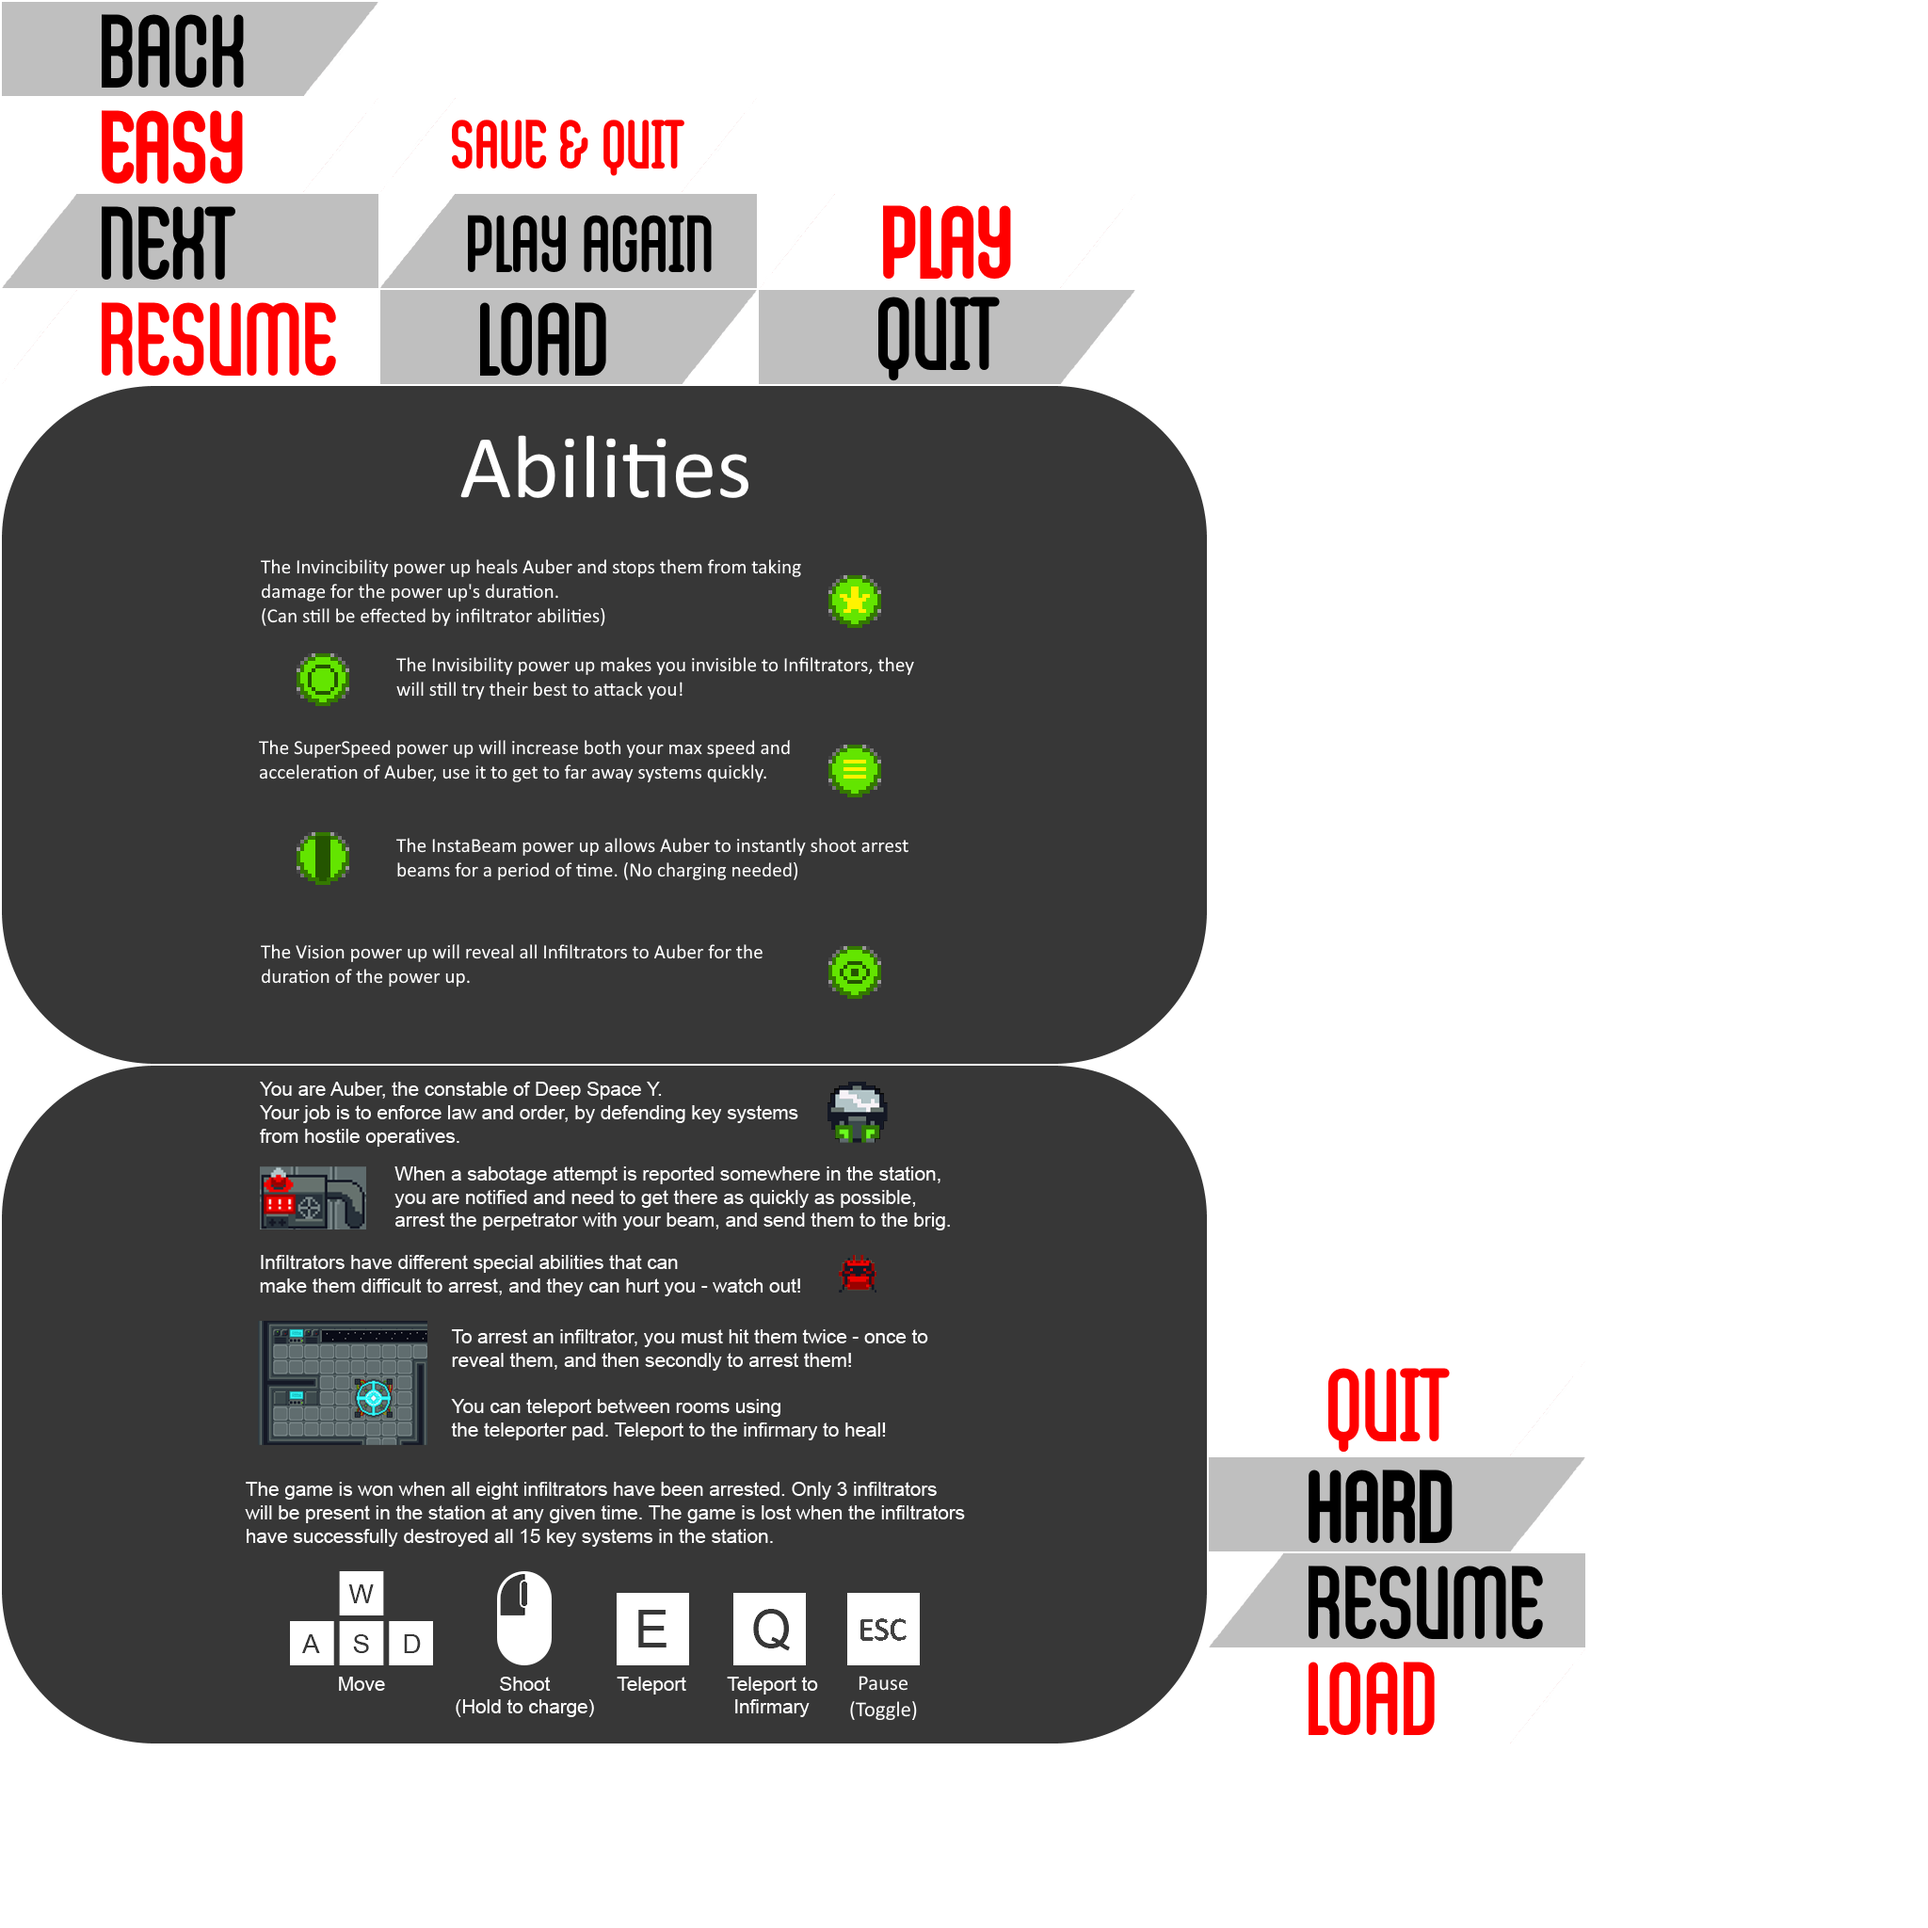
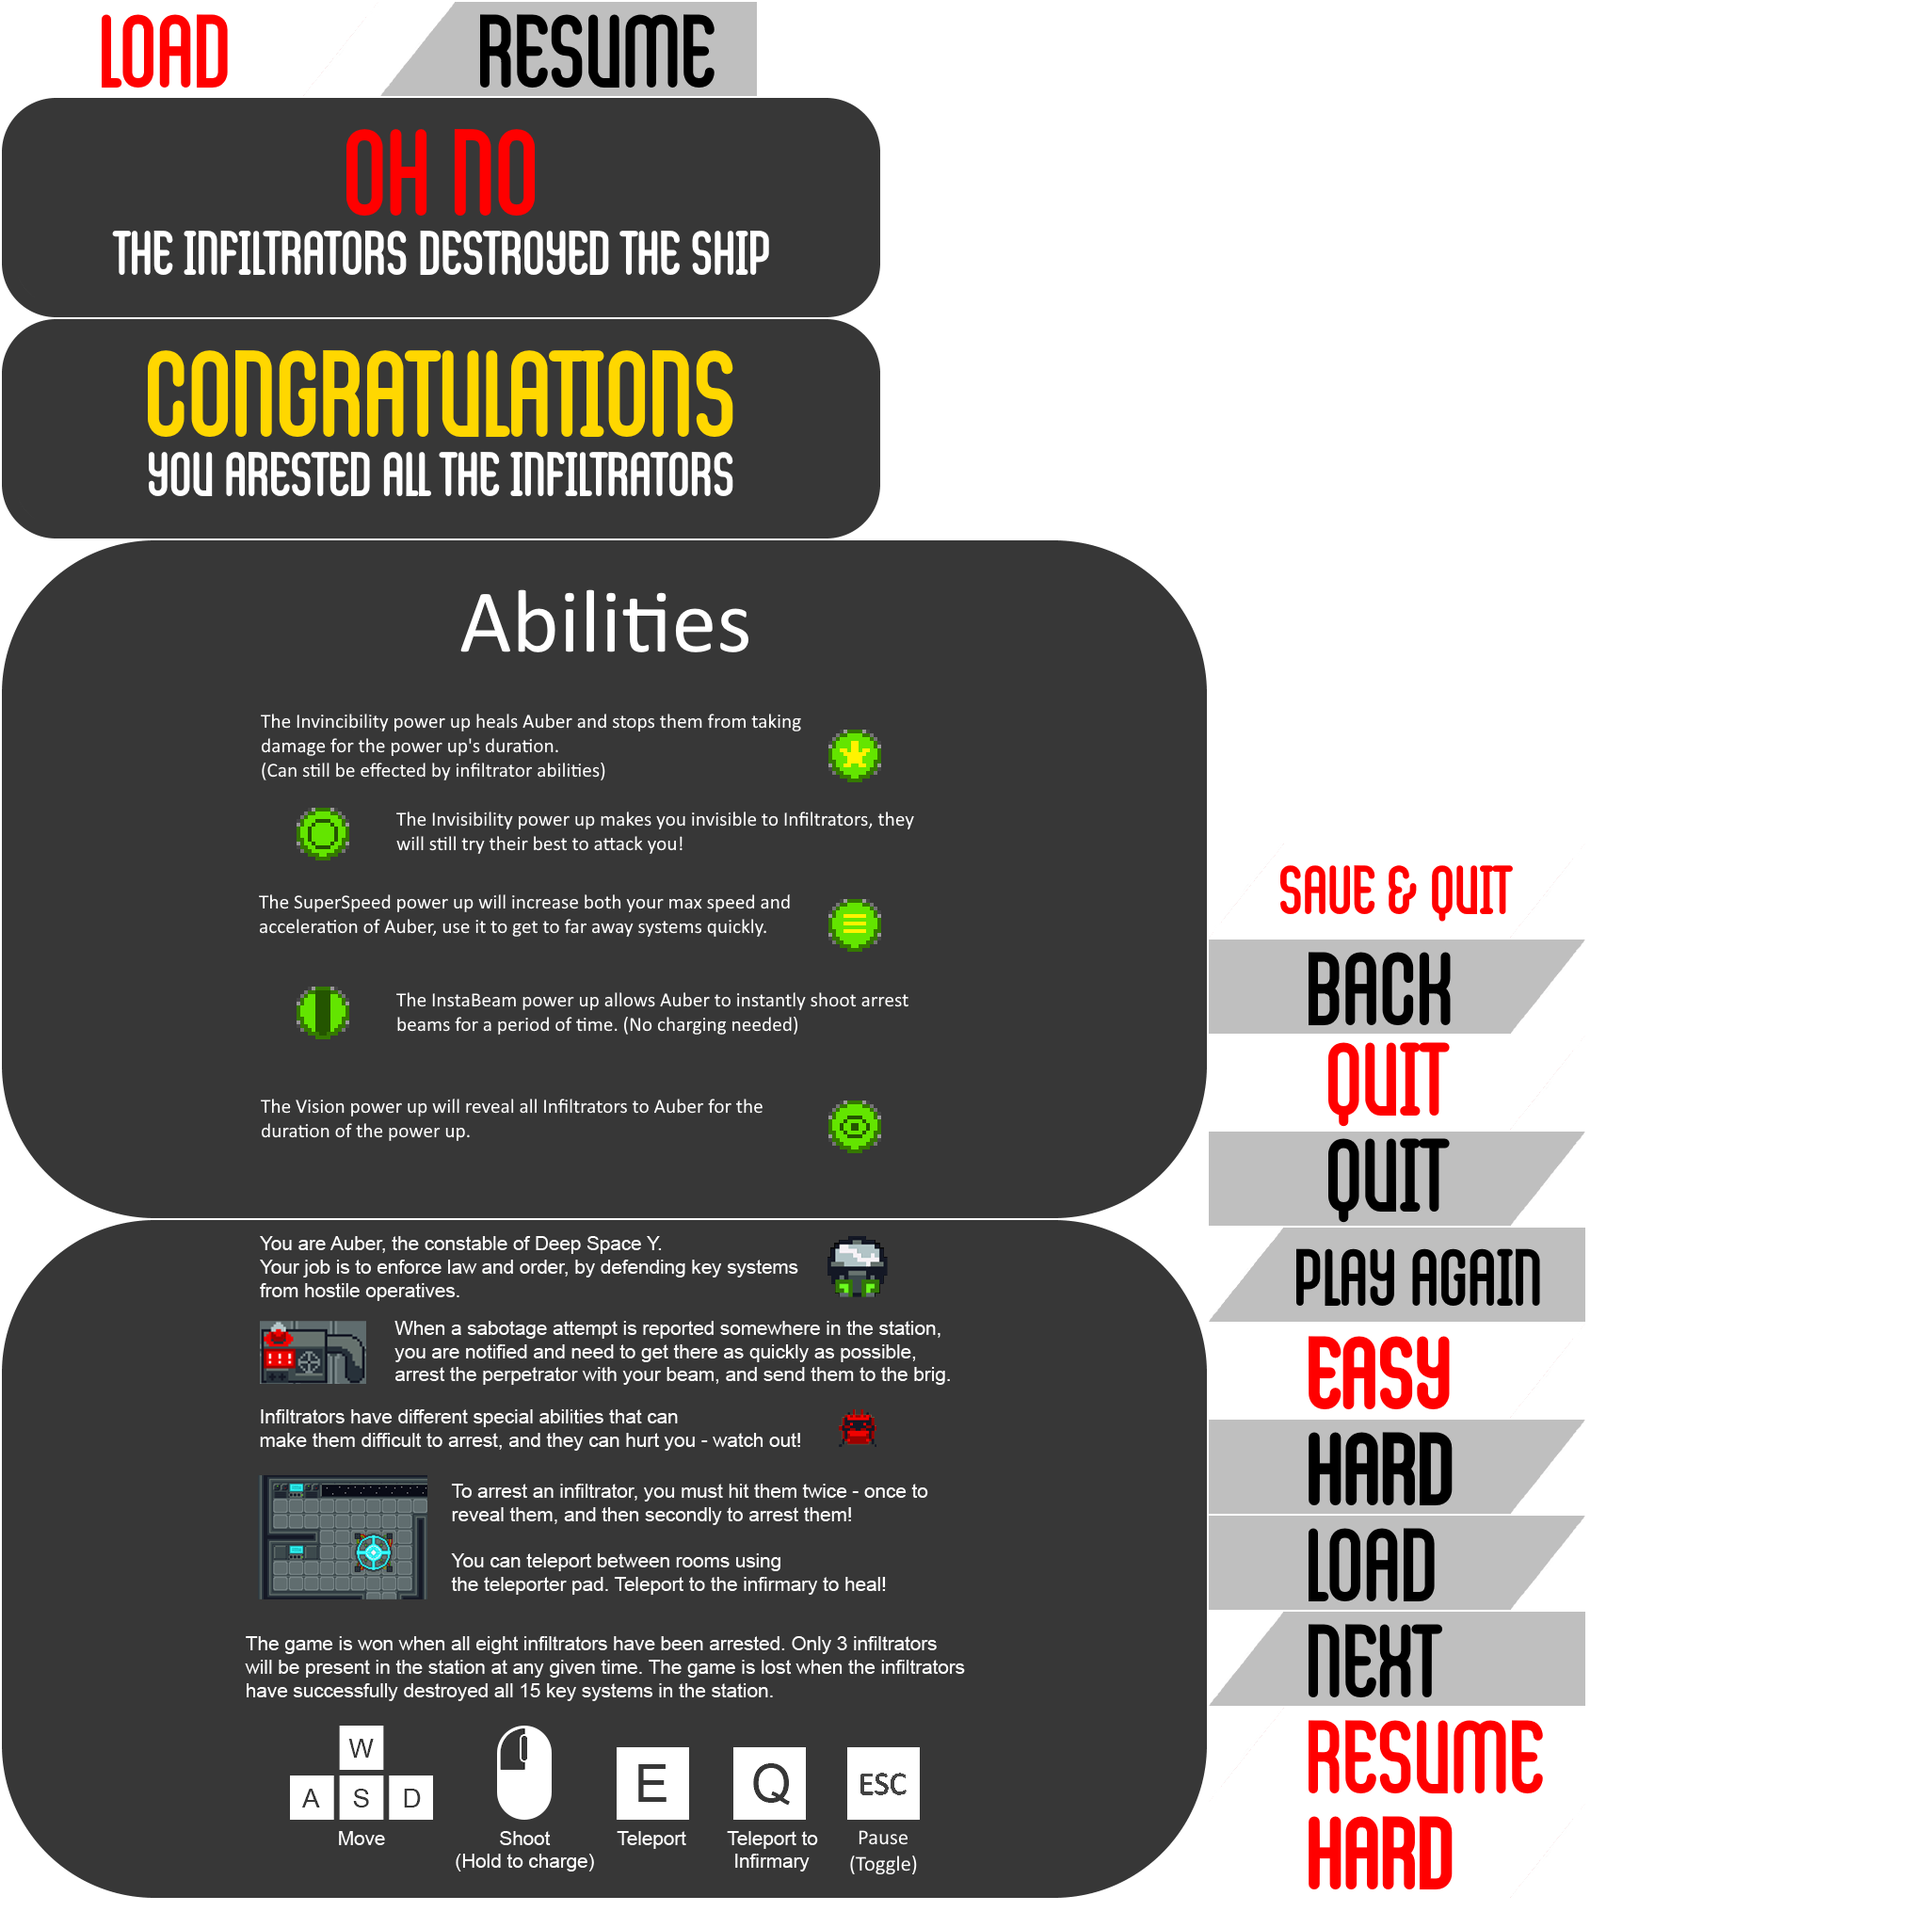
Added some colour to game over ui

Changed region(s): [[0.0, 0.0, 0.8438, 1.0], [0.0, 0.5, 0.0625, 0.6875]]

diff --git a/core/src/com/threecubed/auber/ui/GameOverUI.java b/core/src/com/threecubed/auber/ui/GameOverUI.java
@@ -1,11 +1,13 @@
 package com.threecubed.auber.ui;
 
 import com.badlogic.gdx.Gdx;
+import com.badlogic.gdx.graphics.g2d.Sprite;
 import com.badlogic.gdx.graphics.g2d.SpriteBatch;
 import com.badlogic.gdx.maps.tiled.renderers.OrthogonalTiledMapRenderer;
 import com.badlogic.gdx.math.Vector2;
 import com.threecubed.auber.AuberGame;
 import com.threecubed.auber.World;
+import com.threecubed.auber.screens.GameOverScreen;
 import com.threecubed.auber.screens.GameScreen;
 import com.threecubed.auber.screens.MenuScreen;
 
@@ -26,6 +28,9 @@ public class GameOverUI {
     OrthogonalTiledMapRenderer renderer;
     SpriteBatch spriteBatch;
 
+    Sprite winSprite;
+    Sprite loseSprite;
+
     /**
      * Instantiate the screen with the {@link AuberGame} object. Set the buttons up to be
      * rendered.
@@ -36,6 +41,11 @@ public class GameOverUI {
         this.game = game;
 
         spriteBatch = new SpriteBatch();
+
+        winSprite = World.atlas.createSprite("win");
+        winSprite.setPosition((Gdx.graphics.getWidth() / 2f) - (winSprite.getWidth() / 2f), (Gdx.graphics.getHeight() / 2f) - (winSprite.getHeight() / 2f));
+        loseSprite = World.atlas.createSprite("lose");
+        loseSprite.setPosition((Gdx.graphics.getWidth() / 2f) - (loseSprite.getWidth() / 2f), (Gdx.graphics.getHeight() / 2f) - (loseSprite.getHeight() / 2f));
 
         Runnable onQuitClick = new Runnable() {
             @Override
@@ -65,6 +75,15 @@ public class GameOverUI {
     public void render(SpriteBatch spriteBatch) {
 
         spriteBatch.begin();
+
+        if (GameOverScreen.userWon) {
+            //user won
+            winSprite.draw(spriteBatch);
+        }
+        else {
+            // user lost
+            loseSprite.draw(spriteBatch);
+        }
 
         quitButton.render(spriteBatch);
         playButton.render(spriteBatch);

diff --git a/core/src/com/threecubed/auber/screens/GameOverScreen.java b/core/src/com/threecubed/auber/screens/GameOverScreen.java
@@ -27,7 +27,7 @@ public class GameOverScreen extends ScreenAdapter {
   SpriteBatch batch = new SpriteBatch();
 
   GameOverUI gameOverUi;
-  public boolean userWon;
+  public static boolean userWon;
 
   /**
    * Instantiate the screen with an {@link AuberGame} object.
@@ -56,15 +56,6 @@ public class GameOverScreen extends ScreenAdapter {
 
     // Draw UI
     gameOverUi.render(batch);
-
-    batch.begin();
-    if (userWon) {
-      font.draw(batch, "YOU WON!", Gdx.graphics.getWidth() / 2, Gdx.graphics.getHeight() / 2);
-    }
-    else {
-      font.draw(batch, "YOU LOST!", Gdx.graphics.getWidth() / 2, Gdx.graphics.getHeight() / 2);
-    }
-    batch.end();
   }
   
 }
